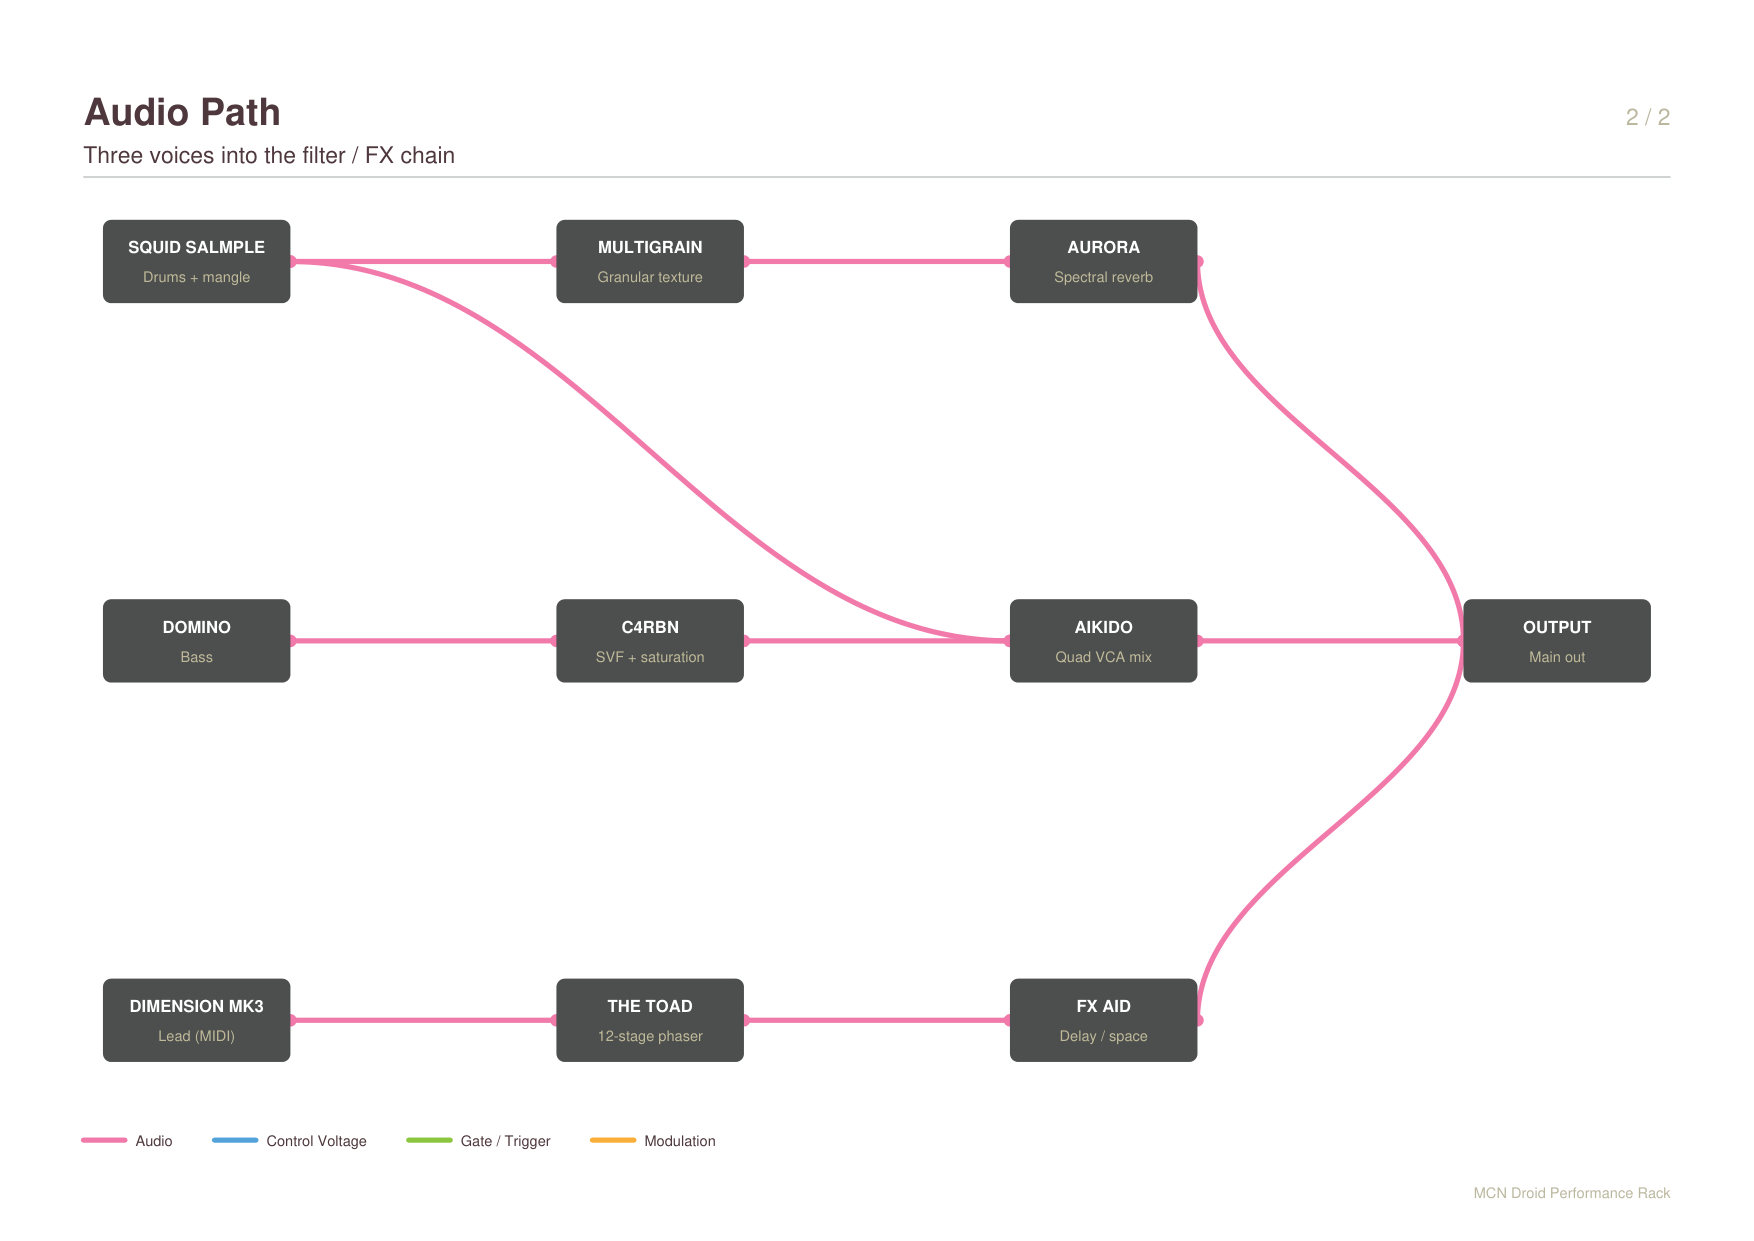
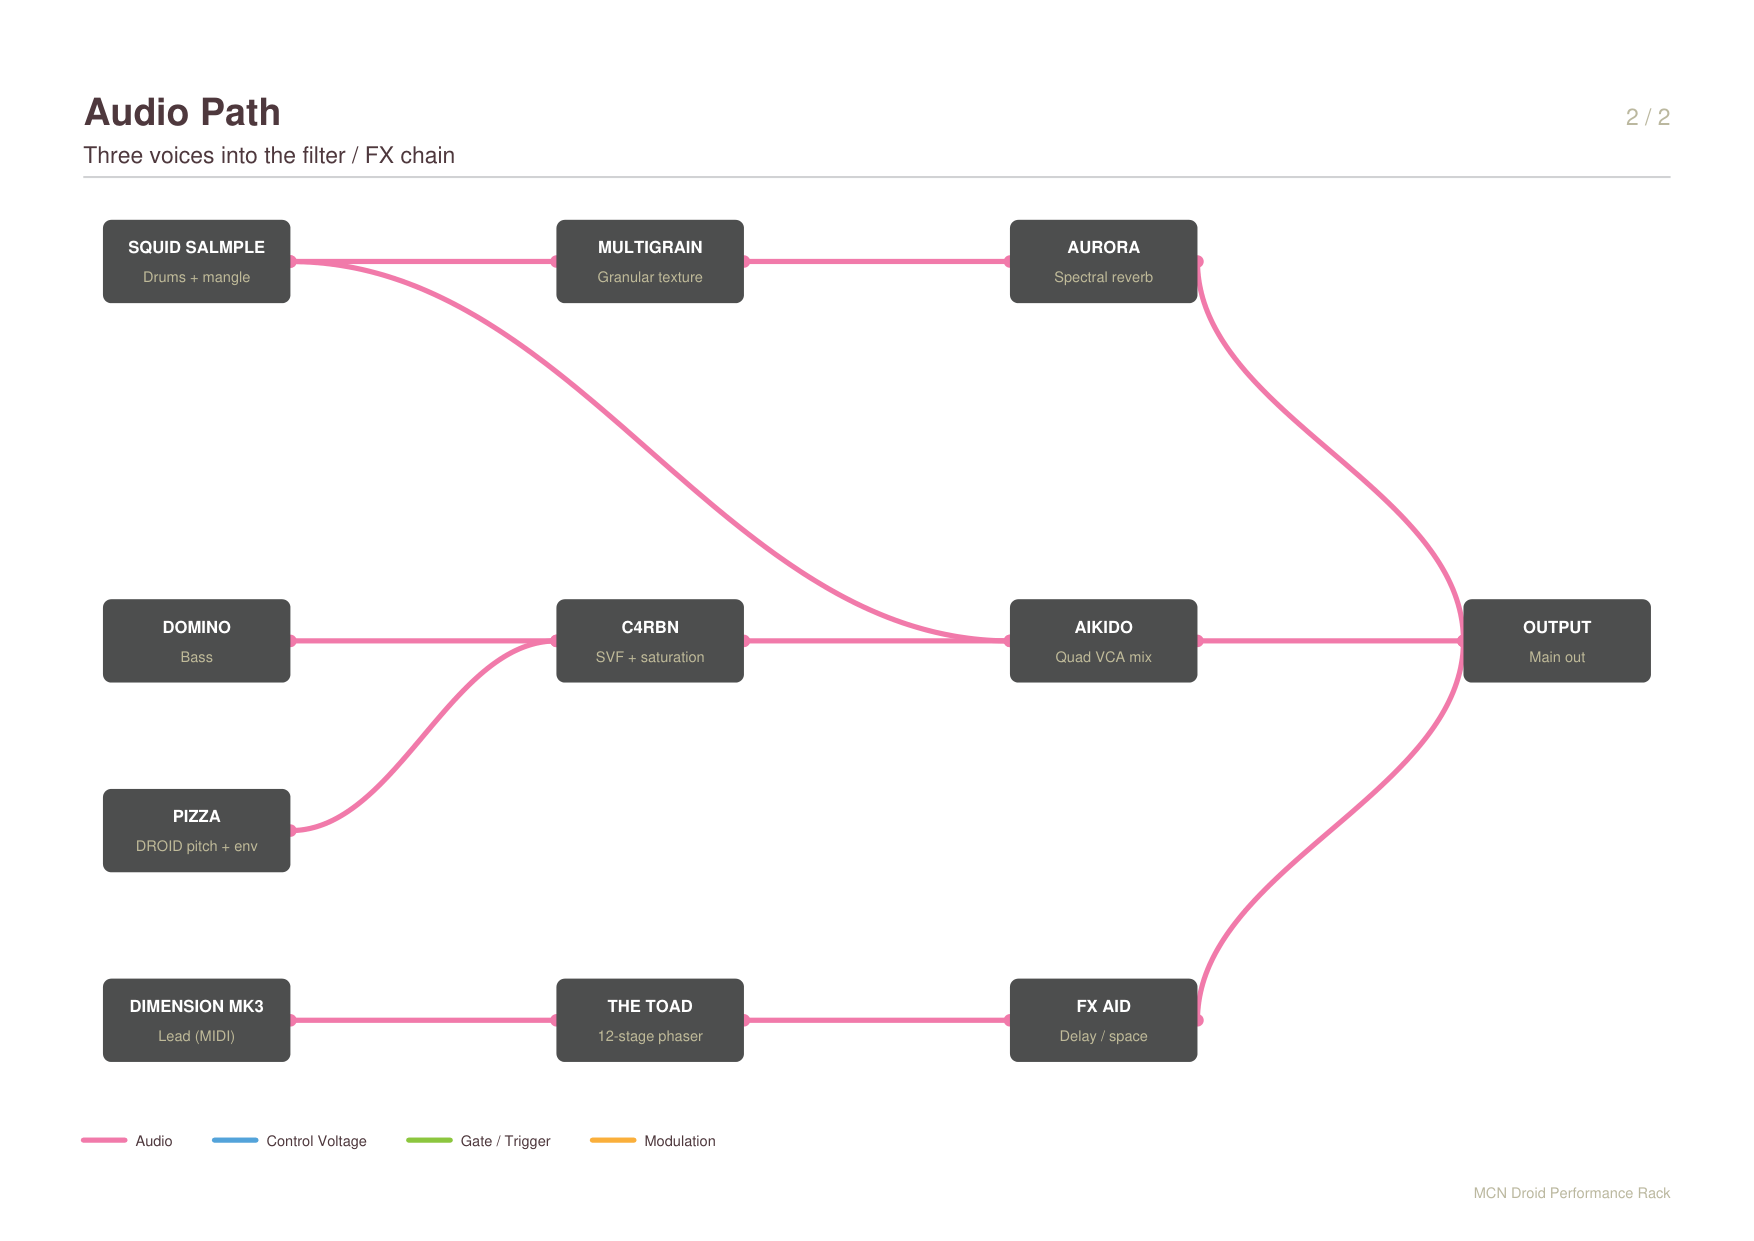
Add PIZZA voice, ADSR, LFO and Domino pitch range control
Javelin is out of the rack and a Bastl PIZZA is in, so the envelope and
VCA shaping it used to provide now come from the DROID.

  O8   PIZZA ADSR envelope, as requested
  O4   general purpose LFO - rate, level and a waveform that morphs
       square / saw / triangle / ramp / paraboloid / sine / cosine
  O5   PIZZA pitch, 1V/oct
  G11  PIZZA trigger, taking over the spare X7 gate from start-of-bar

PIZZA has no sequencer of its own: a [switch] pair points its pitch and
gate at either the lead or the bass line, selected by S5.2, which is free
because Squid channel 2 is blank. P3.10 transposes it +-1 octave. That
costs five small circuits rather than a seventh [algoquencer].

The controls needed eight knobs that did not exist, so B4.18 - also free
from the blank channel - now toggles the P10 between two pages, with each
[pot] carrying select so the pages hold their own values and pick up
rather than jump.

The Domino's pitch range is the fix for the line climbing out of register:
pitchlow and pitchhigh are now driven, with P3.8 setting the bottom of the
line (bipolar, +-1 octave) and P3.7 the ceiling above it (0-1 octave).
The bass also leans offbeat with occasional two-step ratchets and sits on
a semitone grid before quantizing, for more 303 push.

The snare accent bus that shared O8 is removed; the Domino keeps its own
accent on O2.

Claude-Session: https://claude.ai/code/session_01Vi6Maby38vVK6GsPX6PymF

diff --git a/MCN 1/README.md b/MCN 1/README.md
@@ -1,7 +1,9 @@
 # MCN 1
 
-Performance patch for the MCN Droid performance rack — a three-voice groove
-machine with eight scenes.
+Performance patch for the MCN Droid performance rack — a four-voice groove
+machine with eight scenes: drums and sample mangling on the Squid, an acid bass
+on the Domino, a lead over MIDI to the Dimension MK3, and a Bastl PIZZA voice
+with its own pitch, gate, ADSR and LFO.
 
 **Requires DROID firmware blue-7.** The P8S8 is a late-2024 controller; older
 firmware lights it up on boot but never addresses it, which silently kills every
@@ -35,16 +37,63 @@ Gates are numbered continuously across the expanders — G8 first, then X7:
 | `G6`–`G8` | Squid: mangle slots |
 | `G9` | Clock out (X7 gate 1) |
 | `G10` | Domino gate (X7 gate 2) |
-| `G11` | Start of bar (X7 gate 3, spare) |
+| `G11` | **PIZZA trigger / gate** (X7 gate 3) |
 | `G12` | Multigrain — mangle engine 4 (X7 gate 4) |
 | `O1`–`O3` | Domino pitch / accent / filter |
+| `O4` | **General purpose LFO** — rate, level and waveform on page 2 |
+| `O5` | **PIZZA pitch** (1V/oct) |
 | `O6`–`O7` | Filter macro, space macro |
-| `O8` | Accent bus |
+| `O8` | **PIZZA ADSR envelope** |
 | MIDI TRS ch.1 | Dimension MK3 |
 | `I1`/`I2` | Clock / reset in — leave unpatched to use the internal clock |
 | `I3`/`I4` | Joystick X/Y (stacked; the joystick also goes straight to Multigrain) |
 
-`O4` and `O5` are free.
+Nothing is spare now. The snare accent bus that used to sit on `O8` is gone —
+the Domino still has its own accent on `O2`.
+
+## PIZZA
+
+A full voice: pitch on `O5`, trigger on `G11`, ADSR on `O8`, and the LFO on `O4`
+for whatever else it needs — FM index, wavefolding, filter.
+
+**`S5.2` chooses what it plays.** That switch is free because Squid channel 2 is
+blank: centre or up and PIZZA doubles the **lead** line in CV alongside the
+Dimension MK3; down and it follows the **Domino bass** line. `P3.10` on page 2
+transposes it ±1 octave either way, so it can sit an octave above the bass or
+under the lead.
+
+## Two pages of knobs
+
+`B4.18` toggles the P10 between two layers — its LED is lit on page 2. The knobs
+hold their own value per page and pick up when you come back, so switching pages
+never jumps a parameter.
+
+| Knob | Page 1 — performance | Page 2 — voice setup |
+|---|---|---|
+| `P3.1` | Drum density | Env attack |
+| `P3.2` | Map X | Env decay |
+| `P3.3` | Map Y | Env sustain |
+| `P3.4` | Gate length | Env release |
+| `P3.5` | Bass density | LFO rate |
+| `P3.6` | Bass accent | LFO level |
+| `P3.7` | Lead density | **Bass pitch spread** (0–1 oct) |
+| `P3.8` | Lead register | **Bass master pitch** (±1 oct) |
+| `P3.9` | Mangle amount | LFO waveform |
+| `P3.10` | Timbre macro | PIZZA transpose (±1 oct) |
+
+## The Domino's pitch range
+
+This is what stops the bass climbing out of register. The line now runs from
+`_BASS_SHIFT` up to `_BASS_SHIFT + _BASS_SPREAD`:
+
+- **`P3.8` master pitch** sets the bottom of the line, ±1 octave from the root,
+  centre-detented at no transposition.
+- **`P3.7` spread** sets how far above that the line may reach, from a single
+  repeated note up to one octave.
+- `B2.8` still shifts the whole thing an octave for a quick drop.
+
+Quantizing is unchanged — `[minifonion]` keeps every note in the key set by
+`B1.4`, so narrowing the spread never puts the line out of tune.
 
 ## Output levels
 

diff --git a/MCN 1/design.md b/MCN 1/design.md
@@ -77,14 +77,16 @@ So the physical wiring maps as:
 | `G6`–`G8` | Squid: mangle slots (ratchets, stutters, chance one-shots) |
 | `G9` | Clock out to the rack (X7 gate 1) |
 | `G10` | Domino gate (X7 gate 2) |
+| `G11` | PIZZA trigger / gate (X7 gate 3) |
 | `G12` | Multigrain — mangle engine 4 (X7 gate 4) |
 | `O1` | Domino pitch (quantized, with slide) |
 | `O2` | Domino accent |
 | `O3` | Domino filter / mod |
-| `O4`–`O5` | Spare CV — free for whatever the set needs |
+| `O4` | General purpose LFO — rate, level, waveform on page 2 |
+| `O5` | PIZZA pitch (1V/oct) |
 | `O6` | Global filter macro (C4RBN / Dimension) |
 | `O7` | Space macro (Aurora / FX AID) |
-| `O8` | Accent bus |
+| `O8` | PIZZA ADSR envelope |
 | MIDI TRS ch.1 | Dimension MK3: pitch + gate + velocity, CC1/CC2 |
 | `I1` / `I2` | External clock / reset (internal LFO normalled when unpatched) |
 | `I3` / `I4` | Joystick X / Y in — stacked; the joystick also feeds Multigrain directly |
@@ -190,9 +192,34 @@ beats land per cycle, `P5.6`–`P5.8` bias the three Squid channels around it, a
 synced to the clock with `taptempo`.
 
 ### Bass — Domino, `G10` + `O1`–`O3`
-Acid-style line: `[algoquencer]` with `dejavu = 1` for a remembered pattern,
-`[minifonion]` quantizing to the global key/scale, `[slew]` for probabilistic
-slide, and an accent bus that drives both `O2` and the filter CV `O3`.
+Acid/303 line: `[algoquencer]` with `dejavu = 1` for a remembered pattern,
+`[minifonion]` quantizing to the global key/scale, `[slew]` giving accented notes
+a glide into pitch, and an accent that drives both `O2` and the filter envelope
+on `O3`. Offbeat-leaning placement and occasional two-step ratchets give it the
+303 push; `pitchresolution = 12` puts the raw line on a semitone grid before
+quantizing.
+
+**Pitch range** is the part that matters in this rack, because the line was
+climbing out of bass register. `pitchlow` and `pitchhigh` are now driven:
+
+    _BASS_SHIFT = _BASS_OCTAVE + _BASS_MASTER      bottom of the line
+    _BASS_TOP   = _BASS_SHIFT  + _BASS_SPREAD      ceiling
+
+so `P3.8` (master, bipolar ±1 oct) moves the whole line and `P3.7` (spread,
+0–1 oct) sets how far it may travel upward — from one repeated note to an octave.
+
+### PIZZA — Bastl oscillator, `O5` + `G11` + `O8`
+
+Added when the Javelin came out of the rack, so the envelope and VCA shaping it
+used to provide now come from the DROID. PIZZA has no sequencer of its own:
+a `[switch]` pair points its pitch and gate at either the lead line or the bass
+line, chosen by `S5.2` — free because Squid channel 2 is blank — with `P3.10`
+transposing it ±1 octave so it can sit under the lead or an octave above the
+bass. A `[contour]` on `O8` gives it a full ADSR, and the general `[lfo]` on `O4`
+is available for FM index, folding or filter.
+
+Reusing an existing line rather than adding a seventh `[algoquencer]` keeps the
+RAM cost to five small circuits.
 
 ### Lead — Dimension MK3 over MIDI
 `[midiout]` on channel 1, TRS. Confirmed parameter shapes from the blue-6
